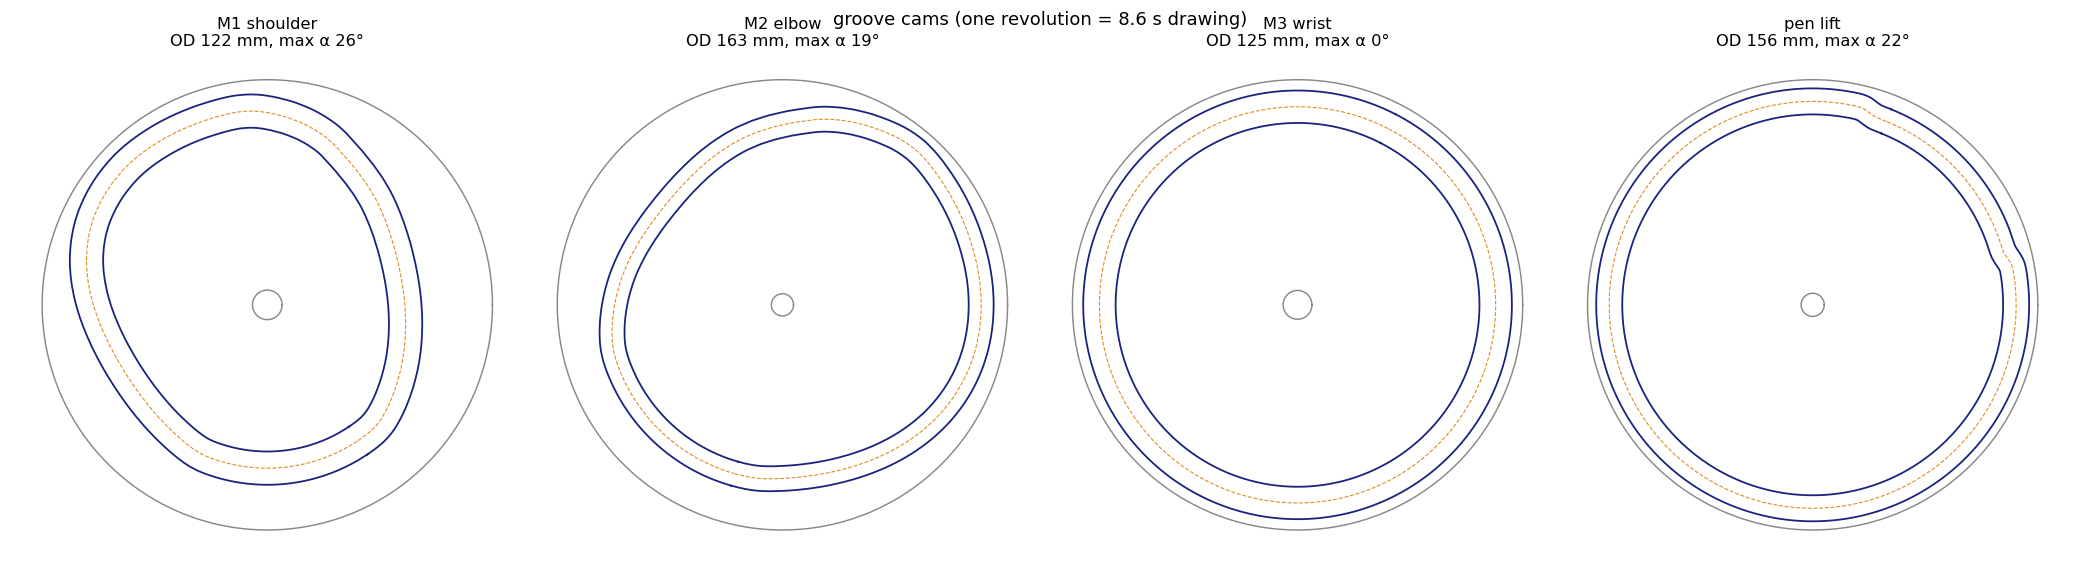
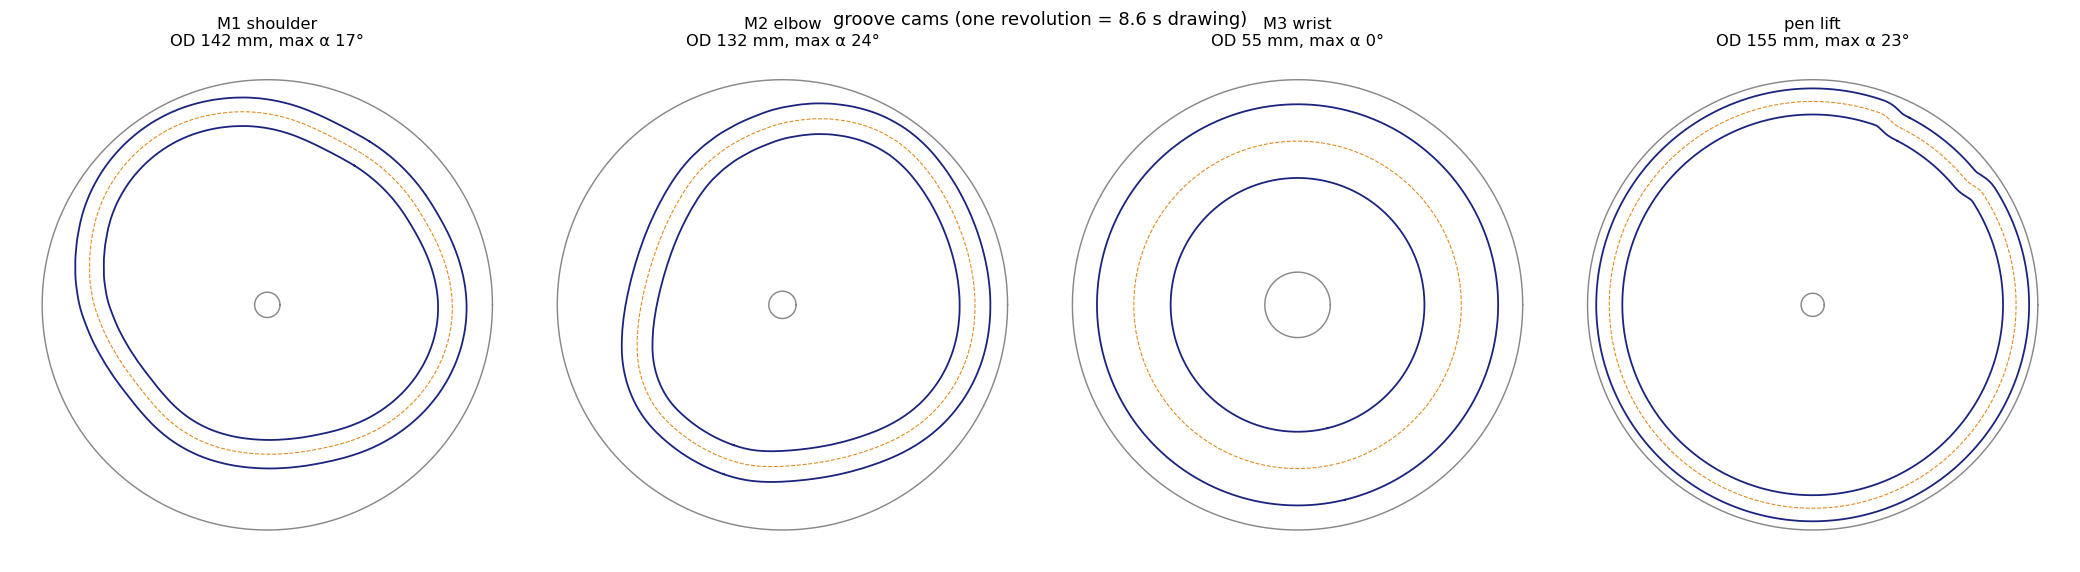
Docs: re-timing, contact limit, drum; refreshed figures and reports

diff --git a/docs/DESIGN.md b/docs/DESIGN.md
@@ -49,18 +49,66 @@ All numbers below come from **`params.toml`** – edit it and re-run
   angle held steady (often the wrist cam becomes a plain circle, i.e. M3 is
   idle), loop starts on the drawing, closed by a pen-up return, pen ramps of
   8° cam angle overlapping the travel moves.
+* **Re-timing** (`[drive].retime`, default 0.7): the camshaft turns at constant
+  speed, so a cam is steep wherever the arm moves fast. A time-optimal path
+  parameterisation (TOPP) keeps the arm's path but redistributes cam angle so
+  every follower's slope *and curvature* on the cam stay within a budget
+  (`retime_accel_ratio`), blended with uniform timing and floored so pauses
+  don't vanish; every pen lift keeps its 8° of cam. The arm then slows where
+  the cams would be steep. `retime = 0` reproduces the old uniform timing.
+* **Groove contact limit** (`[drive].max_contact`, 40 MPa): designs whose
+  roller-on-groove Hertz pressure (spring preload + running torque) would
+  exceed it are rejected, so smaller cams don't come at the cost of worn grooves.
 
 ### Capacity (current parameters)
 
-| Drawing | Cycle | Cam ODs (M1 / M2 / M3 / pen) |
-|---|---|---|
-| circle | 8.1 s | 94 / 105 / 55 / 156 mm |
-| heart | 8.6 s | 122 / 163 / 125 / 156 mm |
-| flower | 13.3 s | 216 / 222 / 215 / 175 mm |
-| examples/sample.svg (14 strokes) | 32 s | infeasible in one revolution |
+| Drawing | Cycle | Cam ODs, uniform timing, contact ≤ 40 MPa | Cam ODs, re-timed (0.7), contact ≤ 40 MPa |
+|---|---|---|---|
+| heart | 8.6 s | 153 / 187 / 165 / 156 mm | **142 / 132 / 55 / 155 mm** |
+| flower | 13.3 s | infeasible | **208 / 182 / 165 / 155 mm** |
+| examples/sample.svg (14 strokes) | 32 s | infeasible | infeasible → use the drum |
 
-One revolution holds roughly one or two closed shapes. The stack-aware pivot
-placement makes upper cams grow when lower cams are big.
+(M1 / M2 / M3 / pen.) One revolution holds roughly one or two closed shapes.
+The stack-aware pivot placement makes upper cams grow when lower cams are big.
+
+## Multi-turn drum (`drawarm/drum.py`)
+
+`python -m drawarm drum heart [--turns N] [--parts]`
+
+![drum bands](images/drum_heart.png)
+
+* A vertical drum at the camshaft position turns **N times per drawing** and
+  rises one lead per turn on a lead screw (fixed nut; the motor drives it
+  through a sliding key/spline).
+* Each follower reads a **raised helical band**. From the follower's fixed
+  plane a band is just a plate cam unrolled over N turns, so the synthesis,
+  re-timing and contact limit are the cam code with θ running 0…2πN.
+* Bands are **interleaved like a multi-start thread**. Only a thin **finger**
+  (3 mm) with the roller under it enters the drum envelope, so ribs of other
+  bands, at other heights modulo the lead, never touch it. Slot per band =
+  rib half-width + roller + finger + clearance = 9 mm, lead = 4 × 9 = 36 mm.
+* Default `contact = "below_base"`: the drum hangs in a **bay under the base
+  plate**; each follower is a rocker on a **steel 8 mm D-shaft** through the
+  base plate (sector gear on top, finger at the bottom). The finger stacking
+  order is chosen so no rocker shaft crosses another finger; the bay is deep
+  enough that the rising drum never reaches the base plate.
+* The anti-backlash springs keep the rollers on the bands, so bands are
+  single-sided ribs (no grooves).
+* End of drawing: reverse the motor (the arm retraces the drawing) or use a
+  half-nut and spring to drop the drum back with the followers lifted.
+
+| Drawing | Turns | Drum OD × length | Bay depth | vs. single-turn cams |
+|---|---|---|---|---|
+| heart | 4 | 67 × 190 mm | 344 mm | cams up to 155 mm |
+| flower | 4 | 99 × 190 mm | ~344 mm | cams up to 208 mm |
+| examples/sample.svg | 6 | 144 × 262 mm | ~460 mm | impossible on one turn |
+
+Trade-offs: much smaller and far more capacity, but a tall body (the bay),
+long rocker shafts, a custom 36 mm-lead screw, and the drum STL is a mesh
+(core + overlapping rib shells; slicers union them). Drum-mode parts are in
+`output/drum_parts/`.
+
+![drum mesh](images/drum_3d.png)
 
 ## Structural check (`drawarm/structural.py`, heart, PLA)
 
@@ -71,11 +119,12 @@ Full report: [reports/strain_heart.md](reports/strain_heart.md).
 | links (upper arm, forearm, cranks) | ≤ 0.4 MPa, ≤ 140 µε, SF > 100 | ≤ 4 MPa, ≤ 1300 µε, SF ≥ 11 |
 | couplers | SF > 1000, buckling SF ≥ 88 | buckling SF ≥ 4 |
 | gears (m1.5, 8 mm, incl. spring preload) | ≤ 7 MPa root, SF ≥ 6, **no load reversal** | ≤ 29 MPa, SF ≥ 1.6 |
-| cam grooves (684 roller) | 34–38 MPa Hertz, **SF 1.2–1.3** | – |
+| cam grooves (684 roller) | ≤ 38 MPa Hertz (limit 40), **SF ≈ 1.2** | – |
 | pen error | 0.6 mm bending, 0.03 mm coupler stretch, 0 backlash | 7 mm elastic |
 
 The cam grooves are the weakest point (preload raises roller force): print
-cams in PETG/nylon or raise `min_wall_radius`. Camshaft needs ≈ 0.37 N·m peak.
+cams in PETG/nylon, or lower `max_contact` (bigger cams). With re-timing the
+camshaft needs ≈ 0.29 N·m peak.
 
 ## Layer stack
 

diff --git a/docs/reports/strain_heart.md b/docs/reports/strain_heart.md
@@ -12,48 +12,48 @@ Each spring sits in the spacer gap under its hub, around the fixed shoulder axle
 | M2 | +0.22 | 1.2 | 19.7 | 20.9 / 18.5 | 7 | 9.6 / 11.0 | 49 | 259 | 12 % over 61° | 1518 / 1615 | yes |
 | M3 | +0.08 | 1.1 | 19.6 | 20.7 / 18.5 | 13 | 15.4 / 16.0 | 19 | 247 | 16 % over 80° | 743 / 1635 | yes |
 
-## Case A – cam drive (as designed, spring-preloaded)
-duration 7.4 s, peak torque the arm needs [0.173, 0.132, 0.028] N·m
+## Case A – cam drive (as designed, re-timing 0.7, spring-preloaded)
+duration 8.6 s, peak torque the arm needs [0.167, 0.119, 0.029] N·m
 
 | member | peak axial F (N) | peak moment (N·mm) | peak stress (MPa) | strain (µε) | SF |
 |---|---|---|---|---|---|
-| upper arm (S-E) |  | 173 | 0.288 | 96 | 156 |
-| forearm (T2-E-W) |  | 130 | 0.412 | 137 | 109 |
-| hand (W-pen) |  | 28 | 0.098 | 33 | 458 |
-| hand crank (W-B2) |  | 28 | 0.100 | 33 | 448 |
-| M2 elbow crank (S-C2) |  | 132 | 0.267 | 89 | 169 |
-| M3 wrist crank (S-A1) |  | 28 | 0.072 | 24 | 628 |
-| bell-crank arm B |  | 28 | 0.079 | 26 | 569 |
-| bell-crank arm A |  | 28 | 0.081 | 27 | 552 |
-| coupler E (C2-T2) | 2.20 |  | 0.032 | 11 | 1417 (buckling SF 109) |
-| coupler A (A1-A2) | 0.81 |  | 0.020 | 7 | 2233 (buckling SF 101) |
-| coupler B (B1-B2) | 0.77 |  | 0.014 | 5 | 3123 (buckling SF 304) |
+| upper arm (S-E) |  | 167 | 0.281 | 94 | 160 |
+| forearm (T2-E-W) |  | 117 | 0.371 | 124 | 121 |
+| hand (W-pen) |  | 29 | 0.099 | 33 | 454 |
+| hand crank (W-B2) |  | 29 | 0.100 | 33 | 450 |
+| M2 elbow crank (S-C2) |  | 119 | 0.241 | 80 | 187 |
+| M3 wrist crank (S-A1) |  | 29 | 0.071 | 24 | 636 |
+| bell-crank arm B |  | 29 | 0.079 | 26 | 572 |
+| bell-crank arm A |  | 29 | 0.080 | 27 | 559 |
+| coupler E (C2-T2) | 2.20 |  | 0.032 | 11 | 1415 (buckling SF 109) |
+| coupler A (A1-A2) | 0.80 |  | 0.020 | 7 | 2257 (buckling SF 99) |
+| coupler B (B1-B2) | 0.82 |  | 0.015 | 5 | 2953 (buckling SF 301) |
 
 | joint | peak force (N) | bearing (MPa) | net tension ×Kt3 (MPa) | SF |
 |---|---|---|---|---|
-| S hub (axle 8 mm) | 2.16 | 0.033 | 0.059 | 763 |
-| elbow E (upper arm lug) | 2.16 | 0.063 | 0.059 | 718 |
-| elbow E (forearm lug) | 2.91 | 0.113 | 0.106 | 400 |
-| wrist W | 0.90 | 0.035 | 0.042 | 1066 |
+| S hub (axle 8 mm) | 1.90 | 0.029 | 0.052 | 867 |
+| elbow E (upper arm lug) | 1.90 | 0.055 | 0.052 | 814 |
+| elbow E (forearm lug) | 3.05 | 0.118 | 0.111 | 381 |
+| wrist W | 0.91 | 0.035 | 0.043 | 1054 |
 | T2 (coupler E) | 2.20 | 0.057 | 0.095 | 472 |
-| A1/A2 (coupler A) | 0.81 | 0.031 | 0.060 | 744 |
-| B1/B2 (coupler B) | 0.77 | 0.022 | 0.043 | 1041 |
+| A1/A2 (coupler A) | 0.80 | 0.031 | 0.060 | 752 |
+| B1/B2 (coupler B) | 0.82 | 0.024 | 0.046 | 984 |
 
 | gear mesh | Ft (N) | root σ hub (MPa) | root σ follower (MPa) | contact (MPa) | hub-root strain (µε) | SF | load reverses? |
 |---|---|---|---|---|---|---|---|
-| M1 hub z30 / follower z90 (m1.5, b8) | 20.4 | 7.11 | 5.78 | 19.6 | 2371 | 6.3 | no (min 0.120 N·m) |
-| M2 hub z30 / follower z90 (m1.5, b8) | 14.7 | 5.10 | 4.14 | 16.6 | 1701 | 8.8 | no (min 0.108 N·m) |
-| M3 hub z30 / follower z90 (m1.5, b8) | 4.8 | 1.67 | 1.35 | 9.5 | 555 | 27.0 | no (min 0.051 N·m) |
+| M1 hub z30 / follower z90 (m1.5, b8) | 20.1 | 7.00 | 5.69 | 19.5 | 2334 | 6.4 | no (min 0.129 N·m) |
+| M2 hub z30 / follower z90 (m1.5, b8) | 14.8 | 5.16 | 4.19 | 16.7 | 1720 | 8.7 | no (min 0.103 N·m) |
+| M3 hub z30 / follower z90 (m1.5, b8) | 4.8 | 1.68 | 1.36 | 9.5 | 559 | 26.9 | no (min 0.051 N·m) |
 
 | cam | roller force (N) | Hertz on groove (MPa) | SF | follower root σ (MPa) |
 |---|---|---|---|---|
-| cam M1 | 20.0 | 37.7 | 1.2 | 5.28 |
-| cam M2 | 16.8 | 33.8 | 1.3 | 3.79 |
-| cam M3 | 3.8 | 15.7 | 2.9 | 1.24 |
+| cam M1 | 18.6 | 37.6 | 1.2 | 5.20 |
+| cam M2 | 17.2 | 37.6 | 1.2 | 3.83 |
+| cam M3 | 4.3 | 18.2 | 2.5 | 1.24 |
 
-Camshaft torque (ideal, springs included): peak 0.370 N·m, RMS 0.161 N·m at 7.0 rpm. With a ~40 %-efficient worm the motor must supply ≈ 0.925 N·m ÷ worm ratio.
+Camshaft torque (ideal, springs included): peak 0.290 N·m, RMS 0.145 N·m at 7.0 rpm. With a ~40 %-efficient worm the motor must supply ≈ 0.726 N·m ÷ worm ratio.
 
-Pen-tip error: coupler stretch 25 µm, link/crank bending 619 µm (upper arm 283, forearm 446, hand 6, cranks 78), backlash + groove slop 0.00 mm (hub slop 0.00°, 0.00°, 0.00°).
+Pen-tip error: coupler stretch 26 µm, link/crank bending 592 µm (upper arm 274, forearm 405, hand 6, cranks 74), backlash + groove slop 0.00 mm (hub slop 0.00°, 0.00°, 0.00°).
 
 ## Case B – fast motors (no cams, no springs; reference)
 duration 7.3 s, peak torque the arm needs [0.251, 0.132, 0.03] N·m

diff --git a/README.md b/README.md
@@ -16,6 +16,7 @@ python -m drawarm sim             # simulator (draw with the mouse, load SVG/ima
 python -m drawarm test            # numerical self-checks
 python -m drawarm cams heart      # encode a drawing onto cams
 python -m drawarm parts heart     # printable parts -> output/stl, output/assembly.step
+python -m drawarm drum heart --parts   # multi-turn drum instead of cams (+ its parts)
 python -m drawarm strain heart    # stress / strain / pen-error report
 ```
 
@@ -37,7 +38,8 @@ drawarm/             the Python package
   planner.py         stroke order, human-like timing, min-energy DP
   inputs.py          SVG / image -> strokes
   shapes.py          built-in drawings, load_drawing()
-  cams.py            one-motor cam stack synthesis
+  cams.py            one-motor cam stack synthesis (+ re-timing)
+  drum.py            multi-turn cam drum
   springs.py         anti-backlash torsion springs
   parts.py           CadQuery parts, STL/STEP export, clearance checks
   structural.py      loads, stress, strain, pen-tip error
@@ -76,8 +78,12 @@ The drawing is stored in a stack of groove cams on one camshaft (one
 revolution = one drawing). Each cam drives one shoulder hub through a 3:1 gear
 sector; a fourth cam lifts the pen. Torsion springs on the shoulder axle
 preload every hub so gear backlash and groove clearance never move the pen.
-See [docs/DESIGN.md](docs/DESIGN.md) for the encoding options considered,
-capacity limits, structural results, layer stack, BOM and print notes.
+The plan is **re-timed** so the arm slows where a cam would be steep, which
+shrinks the cams. For drawings too long for one revolution, a **multi-turn
+drum** (helical bands, lead screw) holds several turns of track in a much
+smaller diameter. See [docs/DESIGN.md](docs/DESIGN.md) for the encoding
+options, capacity, the drum, structural results, layer stack, BOM and print
+notes.
 
 ![cams for the heart](docs/images/cams_heart.png)
 
